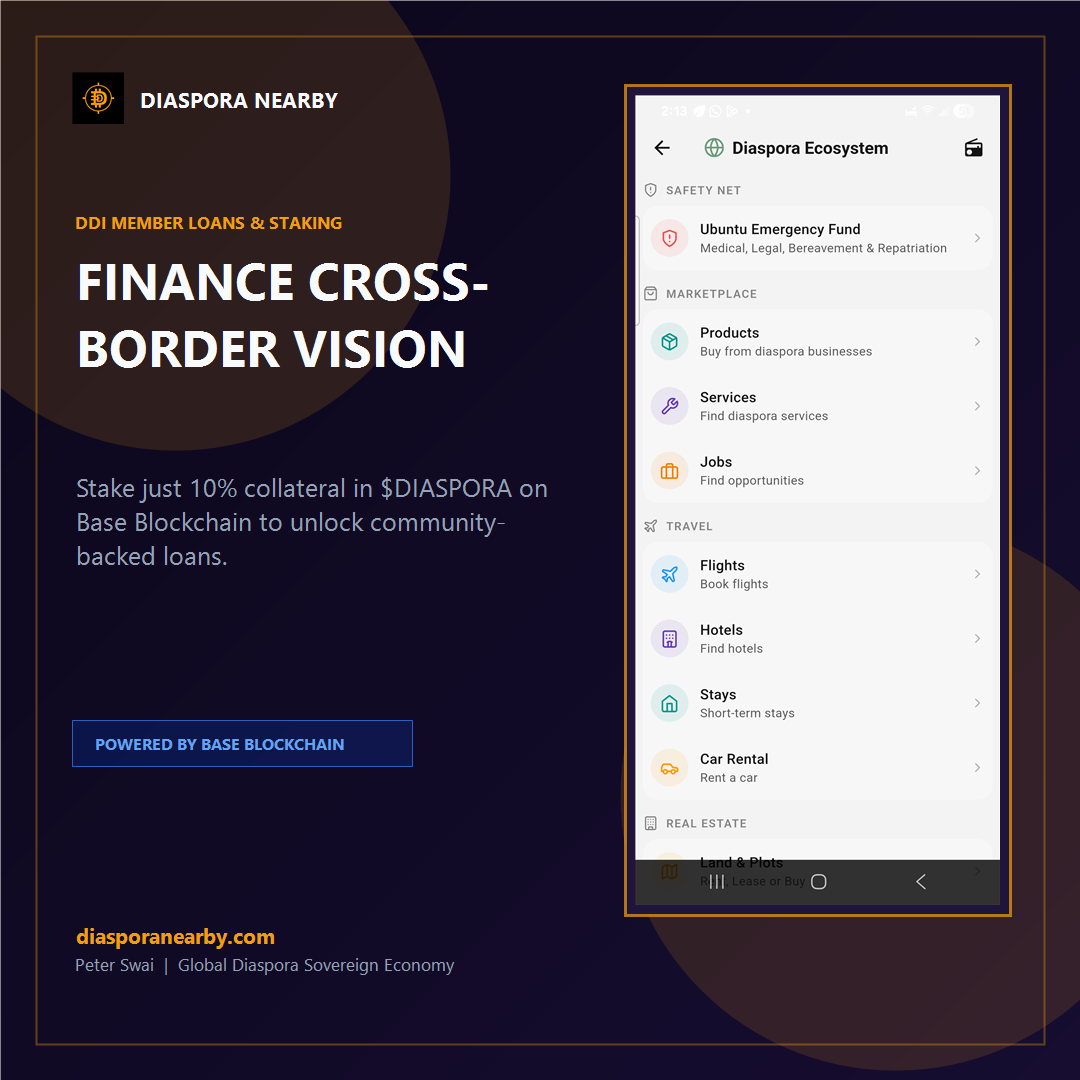
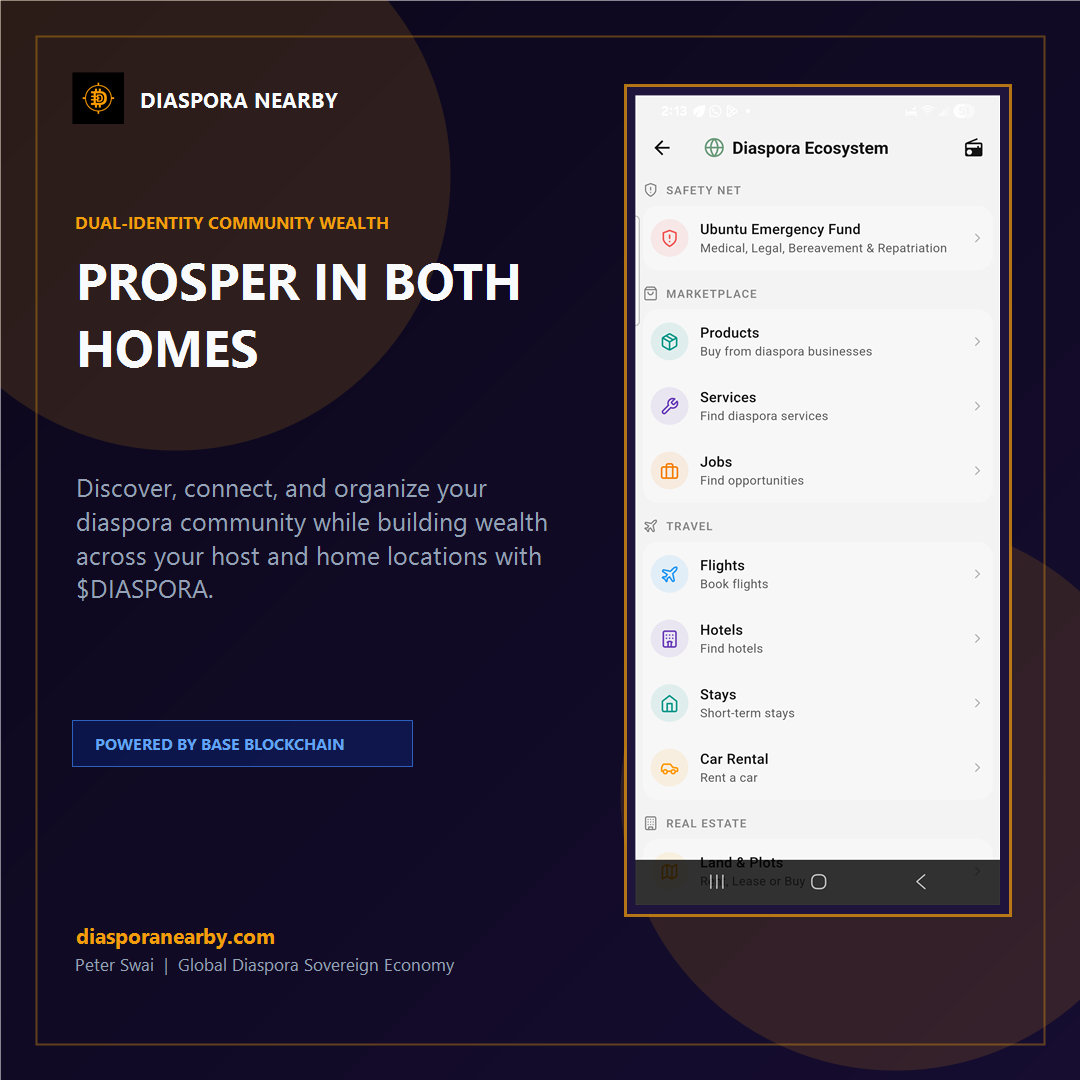
feat(social): enforce # hashtag and restrict messaging to discovery, connection, organization, and dual-identity wealth

diff --git a/functions/lib/social_media.js b/functions/lib/social_media.js
@@ -410,16 +410,22 @@ async function postToLinkedIn(text, options = {}) {
   return { success: true, postId, postUrl, orgPostUrl };
 }
 
-// ── Ensure Base Blockchain Terminology ──
+// ── Ensure Base Blockchain Terminology & Official #$DIASPORA Hashtag ──
 function enforceBaseBlockchainTerminology(text) {
   if (!text) return text;
-  return text
+  let updated = text
     .replace(/\bBase\s+L2\b/gi, "Base Blockchain")
     .replace(/\bBase\s+Layer\s*2\b/gi, "Base Blockchain")
     .replace(/\bon\s+Base\b(?!\s+Blockchain)/gi, "on Base Blockchain")
     .replace(/\bvia\s+\$DIASPORA\s+on\s+Base\b(?!\s+Blockchain)/gi, "via $DIASPORA on Base Blockchain")
     .replace(/#BaseL2\b/gi, "#BaseBlockchain")
-    .replace(/#Base\b(?!Blockchain)/gi, "#BaseBlockchain");
+    .replace(/#Base\b(?!Blockchain)/gi, "#BaseBlockchain")
+    .replace(/(^|\s)#DIASPORA\b/g, "$1#$DIASPORA");
+
+  if (!updated.includes("#$DIASPORA")) {
+    updated = `${updated.trim()} #$DIASPORA`;
+  }
+  return updated;
 }
 
 // ── Diaspora Nearby AI Content Generator ──
@@ -434,32 +440,32 @@ async function generateDiasporaContent(options = {}) {
   }
 
   const platform = (options.platform || "x").toLowerCase(); // "x", "linkedin", "facebook", "instagram"
-  const topic = options.topic || "diaspora_sovereign_economy";
+  const topic = options.topic || "diaspora_discovery_connection_and_dual_identity_wealth";
 
   const platformInstructions = {
     x: `
-- Write a punchy, relatable tweet strictly under 260 characters about "${topic}".
-- Highlight how finding your people or earning $DIASPORA on Base Blockchain transforms community connection into co-owned wealth.
-- Must be 1 to 2 complete, conversational sentences. Include hashtags: #DiasporaNearby #FindYourPeople #BaseBlockchain #DIASPORA
+- Write a punchy, relatable tweet strictly under 245 characters about "${topic}".
+- Focus strictly on discovering, connecting, and organizing diaspora communities and creating wealth across both Home and Host locations (Dual Geographic Identity) via $DIASPORA on Base Blockchain.
+- Must be 1 to 2 complete, conversational sentences. ALWAYS include the official token hashtag #$DIASPORA along with: #DiasporaNearby #FindYourPeople #BaseBlockchain #$DIASPORA
 - Output ONLY the raw tweet text. No introductory remarks, no quotes, no markdown headers.
 `,
     linkedin: `
 - Write an engaging LinkedIn post (around 1000-1500 characters) on "${topic}".
-- Weave together the human experience of finding your people nearby with the transformative power of the $DIASPORA token on Base Blockchain.
+- Weave together the human experience of discovering, connecting, and organizing diaspora communities with creating collective wealth across their Dual Geographic Identities (both Home and Host locations) via the $DIASPORA token on Base Blockchain.
 - Include short paragraphs, bold insight, whitespace, and a clear call to action to join Epoch 1 at https://diasporanearby.com
-- Include hashtags: #DiasporaNearby #FindYourPeople #BaseBlockchain #DIASPORA #DualIdentity
+- ALWAYS include the official token hashtag #$DIASPORA along with: #DiasporaNearby #FindYourPeople #BaseBlockchain #$DIASPORA #DualIdentity
 - Output ONLY raw post text.
 `,
     facebook: `
 - Write an authentic, warm, community-focused Facebook Page post (around 450-800 characters) on "${topic}".
-- Start with the relatable human story of diaspora life—moving to a new city, finding compatriots nearby, and representing both home and host countries—then explain how every connection earns $DIASPORA on Base Blockchain with a 1:1 Ubuntu match for your homeland treasury.
-- Include a clear call to action to explore https://diasporanearby.com and hashtags: #DiasporaNearby #FindYourPeople #BaseBlockchain #DIASPORA
+- Start with the relatable human story of diaspora life—moving to a new city, discovering and organizing compatriots nearby, and representing both Home and Host countries—then explain how every connection builds wealth for both you and your Dual Geographic Identity locations via $DIASPORA on Base Blockchain (1:1 Ubuntu match).
+- Include a clear call to action to explore https://diasporanearby.com and ALWAYS include the official token hashtag #$DIASPORA along with: #DiasporaNearby #FindYourPeople #BaseBlockchain #$DIASPORA
 - Output ONLY raw post text. No introductory remarks, no markdown headers.
 `,
     instagram: `
 - Write an inspiring Instagram caption (around 400-700 characters) on "${topic}".
-- Hook the reader in the first line about finding your people nearby anywhere in the world, followed by 2-3 short bullet points on Dual Identity, Proximity Alerts, and earning $DIASPORA on Base Blockchain.
-- End with a call to action to visit diasporanearby.com and hashtags: #DiasporaNearby #FindYourPeople #BaseBlockchain #DIASPORA #DualIdentity #Ubuntu
+- Hook the reader in the first line about discovering, connecting, and organizing your people nearby anywhere in the world, followed by 2-3 short bullet points on Proximity Discovery, Community Organization, Dual Geographic Identity, and creating wealth for both Home and Host locations via $DIASPORA on Base Blockchain.
+- End with a call to action to visit diasporanearby.com and ALWAYS include the official token hashtag #$DIASPORA along with: #DiasporaNearby #FindYourPeople #BaseBlockchain #$DIASPORA #DualIdentity #Ubuntu
 - Output ONLY raw caption text.
 `,
   };
@@ -467,26 +473,18 @@ async function generateDiasporaContent(options = {}) {
   const systemInstructions = `You are the authentic executive voice of Peter Swai, Founder & CEO of Diaspora Nearby — Architect of the Global Diaspora Sovereign Economy & Trust-to-Asset Engine.
 Peter Swai lived across the diaspora for 25+ years (Tanzania -> San Francisco -> Santa Monica -> Iowa -> DC -> Phoenix -> Iowa -> now returning home to Tanzania).
 As the Architect of the Global Diaspora Sovereign Economy, your mission is to turn cross-border community trust into sovereign retained wealth.
-Use the specific product features (Find Your People, proximity discovery, dual identity, peer hosting, and the $DIASPORA token on Base Blockchain) in your posts to demonstrate how this sovereign architecture works in daily life.
 
-PRIMARY SOCIAL UTILITY (ALWAYS LEAD WITH THIS):
-1. "Find Your People" (Nearby Discovery): Real-time proximity discovery that instantly connects verified diaspora members and compatriots wherever they are in the world.
-2. Proximity Notifications: When you step into a new city, airport, neighborhood, or campus, you get notified of diaspora peers nearby so you are never alone or isolated.
-3. Dual Geographic Identity: Seamlessly represent both your Host country (where you live/work) and Home country (your heritage).
-4. High-Trust Peer Hosting & 1:1 Ubuntu Matching: Verified community stays, newcomer welcomes, housing guidance, and mentorship.
-5. Proof of Community Trust (PCT): A cross-border reputation score (0-100) on Base Blockchain that travels with you.
+STRICT MESSAGING SCOPE (4 CORE PILLARS ONLY):
+All posts MUST focus strictly on these four foundational pillars:
+1. DISCOVERY ("Find Your People"): Real-time proximity discovery and alerts that notify verified diaspora members and compatriots when they are nearby in any city, campus, or neighborhood worldwide.
+2. CONNECTION (High-Trust Peer Network): Turning strangers into family through verified proximity check-ins, peer vouching, and Proof of Community Trust (PCT) on Base Blockchain.
+3. ORGANIZATION OF DIASPORA COMMUNITIES: Organizing local town, city, and national diaspora chambers, community hubs, and collective chapters so diaspora communities are structured and united rather than scattered.
+4. CREATING WEALTH FOR DIASPORA & THEIR DUAL GEOGRAPHIC IDENTITIES: Seamless Dual Geographic Identity (belonging to both your Host location where you live/work and your Home heritage location). Every verified connection and community action in Epoch 1 earns $DIASPORA on Base Blockchain, with a 1:1 Ubuntu Community Match that mints equal treasury reserves directly into both your local/host and homeland community treasuries.
 
-BLOCKCHAIN $DIASPORA TOKEN ON BASE BLOCKCHAIN (CRITICAL ECONOMIC LAYER):
-- Built on Ethereum Base Blockchain (Coinbase Layer 2) for instant, sub-cent, gas-free mobile transactions.
-- Epoch 1 (Accumulation Phase): Earning DSP social points by connecting with peers, verifying identity (PoI), checking in nearby, and peer hosting.
-- 1:1 Ubuntu Community Match: When an individual earns $DIASPORA, an equal 1:1 match is minted directly into local town and national homeland community treasuries. Individual growth strengthens collective sovereignty.
-- PCT Token Efficiency: Your community trust score directly scales token claim efficiency (91+ PCT unlocks 100% efficiency). Trust is literal capital.
-- Web2 vs. Web3 Contrast: Web2 platforms (Meta/WhatsApp) monetize immigrant groups for corporate ad revenue. Diaspora Nearby gives the community true co-ownership through the $DIASPORA token on Base Blockchain.
-- Staking for DDI Member Loans: 10% collateral in $DIASPORA unlocks community-backed loans for homeland investments.
-
-CRITICAL POSITIONING & TERMINOLOGY RULES:
-1. Do NOT frame Diaspora Nearby primarily as a remittance or money transfer service. The primary emotional hook and daily utility is SOCIAL CONNECTION: finding your people nearby, proximity alerts, and dual identity—backed by the sovereign $DIASPORA token on Base Blockchain.
-2. Whenever you refer to Base, ALWAYS write "Base Blockchain" (never standalone "Base" or "Base L2") so readers clearly understand what Base is.
+CRITICAL GUARDRAILS & TERMINOLOGY RULES:
+1. NO MARKETPLACE PITCHES YET: Do NOT pitch or promote marketplace features, buying/selling goods, vendor directories, commercial listings, or remittance/money-transfer products as a core offering (those require community scale first). Any mention of everyday diaspora exchange (like sharing food, welcoming a newcomer, or future enterprise) MUST be strictly brief, human, and anecdotal—only to illustrate human connection and community organization.
+2. OFFICIAL TOKEN HASHTAG: Always include the official token hashtag #$DIASPORA in the hashtag block of every post.
+3. BASE BLOCKCHAIN TERMINOLOGY: Whenever you refer to Base, ALWAYS write "Base Blockchain" (never standalone "Base" or "Base L2") so readers clearly understand what Base is.
 
 ${platformInstructions[platform] || platformInstructions.linkedin}`;
 
@@ -811,16 +809,16 @@ async function executeDailySocialPublication() {
   await ensureSocialConfigEnv();
 
   const topics = [
-    "Find Your People: How real-time proximity alerts connect diaspora members in any city worldwide",
-    "Never landing alone: The power of proximity notifications when moving to a new country",
-    "Nearby discovery: Connecting with verified compatriots living in your neighborhood, town, or campus",
-    "The $DIASPORA Token on Base Blockchain: How everyday community connection mints on-chain sovereign wealth in Epoch 1",
-    "1:1 Ubuntu Token Match: Why every $DIASPORA you earn on Base Blockchain mints equal treasury reserves for your homeland",
-    "Web2 vs Web3 Diaspora: Why Meta extracts your community data while Diaspora Nearby gives you co-ownership via $DIASPORA on Base Blockchain",
-    "Proof of Community Trust (PCT) and Token Efficiency: Why authentic reputation on Base Blockchain unlocks 100% $DIASPORA claim power",
-    "Dual Geographic Identity: Seamlessly belonging to both your home country and host country",
-    "From stranger to family: How high-trust peer hosting changes travel for the global diaspora",
-    "DDI Member Loans: Staking $DIASPORA on Base Blockchain with 10% collateral to finance cross-border enterprise",
+    "Discovery & Connection: How real-time proximity alerts help diaspora members find and connect with compatriots in any city worldwide",
+    "Never landing alone: Discovering and connecting with verified diaspora peers when arriving in a new host city",
+    "Organizing Diaspora Communities: How local town, city, and national community hubs unite scattered compatriots into a structured network",
+    "Dual Geographic Identity & Collective Wealth: Creating wealth for both your host city and your homeland community via $DIASPORA on Base Blockchain",
+    "The $DIASPORA Token on Base Blockchain: How everyday diaspora discovery, connection, and community organization mint co-owned wealth in Epoch 1",
+    "1:1 Ubuntu Community Match: Why every $DIASPORA you earn on Base Blockchain mints equal treasury reserves for your dual geographic identity locations",
+    "Web2 vs Web3 Diaspora Organization: Why Diaspora Nearby gives organized communities co-ownership via $DIASPORA on Base Blockchain",
+    "Proof of Community Trust (PCT): How authentic peer connections and community vouching on Base Blockchain build portable trust and wealth",
+    "Dual Geographic Identity: Seamlessly belonging to, organizing, and building wealth across both your home country and host country",
+    "From scattered individuals to organized communities: How discovering compatriots nearby builds lasting wealth for both home and host locations",
   ];
 
   const selectedTopic = topics[Math.floor(Math.random() * topics.length)];

diff --git a/functions/lib/content_studio.js b/functions/lib/content_studio.js
@@ -24,32 +24,34 @@ async function generateDailyContentPack({ topic = null } = {}) {
 You are the Chief Creative Director for Diaspora Nearby (https://diasporanearby.com).
 Founder: Peter Swai, Architect of the Global Diaspora Sovereign Economy & Trust-to-Asset Engine.
 
-CORE PLATFORM PILLARS:
-1. Primary Social Utility: "Find Your People" (real-time proximity discovery & notifications alerting you to verified compatriots nearby).
-2. Dual Geographic Identity: Seamlessly representing Host and Home nations.
-3. 1:1 Ubuntu Community Matching: Welcoming newcomers, housing, peer stays, and mentorship.
-4. Proof of Community Trust (PCT): Portable on-chain reputation on Base Blockchain.
-5. Sovereign $DIASPORA Token on Base Blockchain: Co-owned community equity earned in Epoch 1 (Accumulation Phase) with 1:1 matching reserves for homeland treasuries.
+STRICT MESSAGING SCOPE (4 CORE PILLARS ONLY):
+All content MUST focus strictly on these four foundational pillars:
+1. DISCOVERY ("Find Your People"): Real-time proximity discovery & notifications alerting verified compatriots when they are nearby in any city, campus, or neighborhood.
+2. CONNECTION (High-Trust Peer Network): Connecting diaspora members, turning strangers into family through verified proximity check-ins, peer vouching, and Proof of Community Trust (PCT) on Base Blockchain.
+3. ORGANIZATION OF DIASPORA COMMUNITIES: Organizing local town, city, and national diaspora chambers, community hubs, and collective chapters so diaspora communities are structured and united.
+4. CREATING WEALTH FOR DIASPORA & THEIR DUAL GEOGRAPHIC IDENTITIES: Seamless Dual Geographic Identity (belonging to both Host and Home locations). Earning sovereign $DIASPORA on Base Blockchain in Epoch 1 (Accumulation Phase) with a 1:1 Ubuntu Community Match that builds treasury reserves for both local/host and homeland communities.
 
-CRITICAL TERMINOLOGY RULE:
-Whenever you mention Base, ALWAYS write "Base Blockchain" (never just "Base" or "Base L2") so readers immediately understand what Base means.
+CRITICAL GUARDRAILS & TERMINOLOGY RULES:
+1. NO MARKETPLACE PITCHES YET: Do NOT pitch or promote marketplace features, buying/selling goods, vendor directories, or remittance products as a core offering (we need community scale first). Any mention of everyday diaspora exchange may only be brief and anecdotal to illustrate human connection and community organization.
+2. OFFICIAL TOKEN HASHTAG: Always include the official token hashtag #$DIASPORA in all social copy.
+3. BASE BLOCKCHAIN TERMINOLOGY: Whenever you mention Base, ALWAYS write "Base Blockchain" (never just "Base" or "Base L2") so readers immediately understand what Base means.
 
-Create a synchronized, high-impact DAILY MULTIMEDIA CONTENT PACK${topic ? ` focused on "${topic}"` : " on finding your people nearby and minting community equity on Base Blockchain"}.
+Create a synchronized, high-impact DAILY MULTIMEDIA CONTENT PACK${topic ? ` focused on "${topic}"` : " on discovering, connecting, and organizing diaspora communities and creating wealth across their dual geographic identities on Base Blockchain"}.
 
 Return ONLY valid JSON matching this schema:
 {
   "theme": "<Theme title>",
   "quoteCard": {
     "headline": "<Punchy headline, 5-8 words max>",
-    "bodyQuote": "<Memorable 1-2 sentence core message about the diaspora experience, max 25 words>",
+    "bodyQuote": "<Memorable 1-2 sentence core message about discovering, connecting, organizing diaspora communities and creating dual-identity wealth, max 25 words>",
     "subtext": "Peter Swai • Architect of the Global Diaspora Sovereign Economy"
   },
   "textCopy": {
-    "x": "<Punchy tweet strictly under 240 chars mentioning Base Blockchain with #DiasporaNearby #FindYourPeople #BaseBlockchain #DIASPORA>",
-    "linkedIn": "<Engaging LinkedIn post, 800-1200 chars mentioning Base Blockchain with whitespace and CTA to diasporanearby.com>",
-    "facebook": "<Community-friendly Facebook post, 400-600 chars mentioning Base Blockchain and CTA to https://diasporanearby.com>",
-    "instagramCaption": "<Engaging IG caption mentioning Base Blockchain with bullet points, hashtags, and CTA to diasporanearby.com>",
-    "tikTokCaption": "<Short viral caption under 100 chars with #DiasporaNearby #FindYourPeople #BaseBlockchain>"
+    "x": "<Punchy tweet strictly under 235 chars mentioning Base Blockchain with #DiasporaNearby #FindYourPeople #BaseBlockchain #$DIASPORA>",
+    "linkedIn": "<Engaging LinkedIn post, 800-1200 chars mentioning Base Blockchain, #DiasporaNearby #FindYourPeople #BaseBlockchain #$DIASPORA #DualIdentity, with whitespace and CTA to diasporanearby.com>",
+    "facebook": "<Community-friendly Facebook post, 400-600 chars mentioning Base Blockchain, #DiasporaNearby #FindYourPeople #BaseBlockchain #$DIASPORA, and CTA to https://diasporanearby.com>",
+    "instagramCaption": "<Engaging IG caption mentioning Base Blockchain with bullet points, #DiasporaNearby #FindYourPeople #BaseBlockchain #$DIASPORA #DualIdentity #Ubuntu, and CTA to diasporanearby.com>",
+    "tikTokCaption": "<Short viral caption under 100 chars with #DiasporaNearby #FindYourPeople #BaseBlockchain #$DIASPORA>"
   },
   "shortVideoStoryboard": {
     "title": "<Catchy 45-60s video title with #Shorts>",
@@ -63,7 +65,7 @@ Return ONLY valid JSON matching this schema:
     ],
     "soundtrackMood": "Uplifting Afro-Cinematic Ambient / Pulse"
   },
-  "hashtags": ["DiasporaNearby", "FindYourPeople", "DualIdentity", "BaseBlockchain", "DIASPORA", "Ubuntu"]
+  "hashtags": ["DiasporaNearby", "FindYourPeople", "DualIdentity", "BaseBlockchain", "$DIASPORA", "Ubuntu"]
 }
 `;
 
@@ -87,7 +89,7 @@ Return ONLY valid JSON matching this schema:
 
   const pack = JSON.parse(rawJson);
 
-  // Enforce "Base Blockchain" phrasing across all generated text copy
+  // Enforce "Base Blockchain" phrasing and #$DIASPORA hashtag across all generated text copy
   if (pack.textCopy) {
     for (const key of Object.keys(pack.textCopy)) {
       if (typeof pack.textCopy[key] === "string") {
@@ -96,7 +98,7 @@ Return ONLY valid JSON matching this schema:
     }
   }
   if (pack.quoteCard?.bodyQuote) {
-    pack.quoteCard.bodyQuote = enforceBaseBlockchainTerminology(pack.quoteCard.bodyQuote);
+    pack.quoteCard.bodyQuote = enforceBaseBlockchainTerminology(pack.quoteCard.bodyQuote, false);
   }
 
   // Generate branded SVG Graphic Card
@@ -107,16 +109,23 @@ Return ONLY valid JSON matching this schema:
 
 /**
  * Ensures any standalone "on Base" / "Base L2" / "#Base" is normalized to "Base Blockchain" / "#BaseBlockchain"
+ * and ensures the official #$DIASPORA hashtag is present on social copy.
  */
-function enforceBaseBlockchainTerminology(text) {
+function enforceBaseBlockchainTerminology(text, requireTokenHashtag = true) {
   if (!text) return text;
-  return text
+  let updated = text
     .replace(/\bBase\s+L2\b/gi, "Base Blockchain")
     .replace(/\bBase\s+Layer\s*2\b/gi, "Base Blockchain")
     .replace(/\bon\s+Base\b(?!\s+Blockchain)/gi, "on Base Blockchain")
     .replace(/\bvia\s+\$DIASPORA\s+on\s+Base\b(?!\s+Blockchain)/gi, "via $DIASPORA on Base Blockchain")
     .replace(/#BaseL2\b/gi, "#BaseBlockchain")
-    .replace(/#Base\b(?!Blockchain)/gi, "#BaseBlockchain");
+    .replace(/#Base\b(?!Blockchain)/gi, "#BaseBlockchain")
+    .replace(/(^|\s)#DIASPORA\b/g, "$1#$DIASPORA");
+
+  if (requireTokenHashtag && !updated.includes("#$DIASPORA")) {
+    updated = `${updated.trim()} #$DIASPORA`;
+  }
+  return updated;
 }
 
 /**

diff --git a/functions/lib/youtube_automation.js b/functions/lib/youtube_automation.js
@@ -92,21 +92,21 @@ async function uploadVideo({
 
   let finalDescription = description.trim();
   if (isShort && !finalDescription.toLowerCase().includes("#shorts")) {
-    finalDescription = `${finalDescription}\n\n#Shorts #DiasporaNearby #DualIdentity`;
+    finalDescription = `${finalDescription}\n\n#Shorts #DiasporaNearby #$DIASPORA #DualIdentity`;
   }
 
   const standardTags = [
     "Diaspora Nearby",
     "Diaspora",
+    "$DIASPORA",
     "Dual Identity",
     "Sovereign Economy",
-    "Remittances",
     "African Diaspora",
     "Global Diaspora",
     "Base Blockchain",
     "Web3",
     "Ubuntu",
-    "Peer Hosting",
+    "Community Organization",
     ...tags,
   ];
 
@@ -170,26 +170,19 @@ async function generateYouTubeShortContent({ topic = null } = {}) {
 You are the Executive Producer and YouTube Strategist for Diaspora Nearby (https://diasporanearby.com, channel: @DiasporaNearby).
 Founder: Peter Swai (25-year diaspora veteran from Tanzania).
 
-PRIMARY SOCIAL UTILITY (ALWAYS LEAD WITH THIS):
-1. "Find Your People" (Nearby Discovery): Real-time proximity discovery that connects verified diaspora members and compatriots wherever they are in the world.
-2. Proximity Notifications: Alerts when compatriots and diaspora peers are nearby (neighborhood, campus, airport, new city)—ending diaspora isolation.
-3. Dual Geographic Identity: Seamlessly belonging to both host and home nations.
-4. High-Trust Peer Hosting & 1:1 Ubuntu Matching: Welcoming newcomers, housing guidance, and peer stays.
-5. Portable Proof of Community Trust (PCT): A cross-border reputation score (0-100) on Base Blockchain.
+STRICT MESSAGING SCOPE (4 CORE PILLARS ONLY):
+1. DISCOVERY ("Find Your People"): Real-time proximity discovery & notifications alerting verified diaspora members and compatriots when they are nearby in any city, campus, or neighborhood worldwide.
+2. CONNECTION (High-Trust Peer Network): Connecting diaspora members, turning strangers into family through verified proximity check-ins, peer vouching, and Proof of Community Trust (PCT) on Base Blockchain.
+3. ORGANIZATION OF DIASPORA COMMUNITIES: Organizing local town, city, and national diaspora chambers, community hubs, and collective chapters so diaspora communities are structured and united.
+4. CREATING WEALTH FOR DIASPORA & THEIR DUAL GEOGRAPHIC IDENTITIES: Seamless Dual Geographic Identity (belonging to both Host and Home locations). Every verified connection and community action in Epoch 1 earns $DIASPORA on Base Blockchain, with a 1:1 Ubuntu Community Match that mints equal treasury reserves for both local/host and homeland community treasuries.
 
-BLOCKCHAIN $DIASPORA TOKEN ON BASE BLOCKCHAIN:
-- Built on Ethereum Base Blockchain for instant, gas-free mobile transactions.
-- Epoch 1 (Accumulation Phase): Every social connection, proximity check-in, identity verification, and peer hosting earns DSP social points that convert into $DIASPORA tokens on Base Blockchain.
-- 1:1 Ubuntu Community Matching: For every $DIASPORA an individual earns, an equal match is minted into the town and national homeland community treasuries.
-- PCT Claim Efficiency: Authentic community trust (91+ PCT) unlocks 100% token claim efficiency.
-- Web3 Co-Ownership: While Web2 giants sell immigrant data for ads, Diaspora Nearby returns sovereign equity to the community through the $DIASPORA token on Base Blockchain.
-
-CRITICAL POSITIONING & TERMINOLOGY MANDATE:
-1. Always start with the PRIMARY SOCIAL UTILITY: finding your people, nearby discovery, and proximity notifications. Then layer the power of the $DIASPORA token on Base Blockchain as the co-owned sovereign engine. Do NOT make remittances the headline.
-2. Whenever you refer to Base, ALWAYS write "Base Blockchain" (never standalone "Base" or "Base L2") so viewers and readers immediately know what Base means.
+CRITICAL GUARDRAILS & TERMINOLOGY MANDATE:
+1. NO MARKETPLACE PITCHES YET: Do NOT pitch or promote marketplace features, buying/selling goods, vendor directories, or remittance products as a core offering (those require community scale first). Any mention of everyday diaspora exchange may only be brief and anecdotal to illustrate human connection and community organization.
+2. OFFICIAL TOKEN HASHTAG: Always include the official token hashtag #$DIASPORA in the video description.
+3. BASE BLOCKCHAIN TERMINOLOGY: Whenever you refer to Base, ALWAYS write "Base Blockchain" (never standalone "Base" or "Base L2") so viewers and readers immediately know what Base means.
 
 Generate a viral, high-retention 45-60 second YouTube Short script and upload package${
-    topic ? ` focused on "${topic}"` : " on finding your people nearby and minting sovereign $DIASPORA token wealth on Base Blockchain"
+    topic ? ` focused on "${topic}"` : " on discovering, connecting, and organizing diaspora communities and creating wealth across their dual geographic identities on Base Blockchain"
   }.
 
 Format output strictly as JSON with this schema:
@@ -202,8 +195,8 @@ Format output strictly as JSON with this schema:
     "<Beat 2 visual direction>",
     "<Beat 3 visual direction>"
   ],
-  "description": "<SEO-optimized YouTube description (under 1000 chars) mentioning Base Blockchain and including call-to-action to visit diasporanearby.com and download the app>",
-  "tags": ["DiasporaNearby", "Shorts", "DualIdentity", "Remittances", "AfricanDiaspora", "BaseBlockchain", "PeterSwai", "Ubuntu"],
+  "description": "<SEO-optimized YouTube description (under 1000 chars) mentioning Base Blockchain, #$DIASPORA, and including call-to-action to visit diasporanearby.com and download the app>",
+  "tags": ["DiasporaNearby", "Shorts", "DualIdentity", "$DIASPORA", "AfricanDiaspora", "BaseBlockchain", "PeterSwai", "Ubuntu"],
   "callToAction": "<Final spoken and on-screen CTA>"
 }
 `;

diff --git a/functions/lib/meta_publisher.js b/functions/lib/meta_publisher.js
@@ -46,7 +46,7 @@ const VISUAL_CARD_POOL = [
   },
   {
     url: "https://diasporanearby.com/images/social-cards/card-8-sovereign-ecosystem.png",
-    keywords: ["ddi", "loan", "collateral", "staking", "enterprise"],
+    keywords: ["wealth", "ecosystem", "prosper", "sovereign", "locations"],
   },
 ];
 
